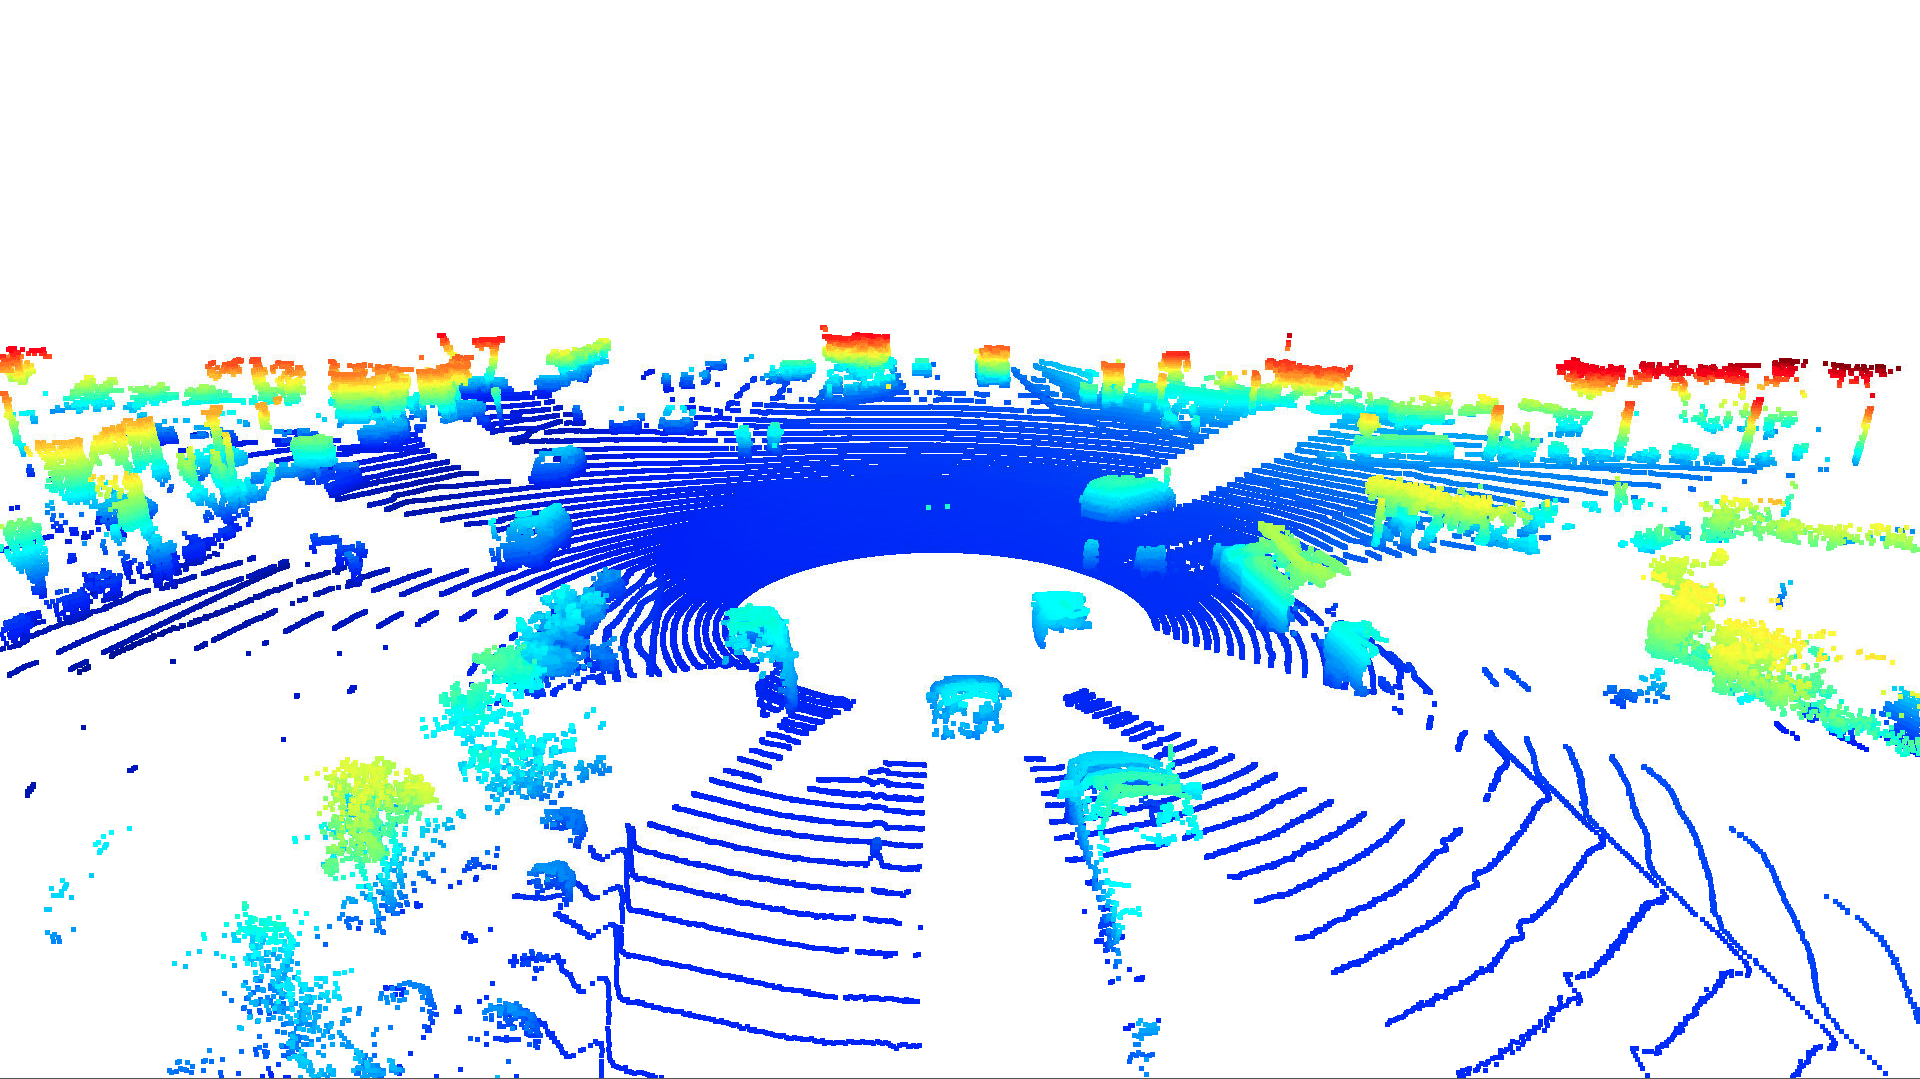
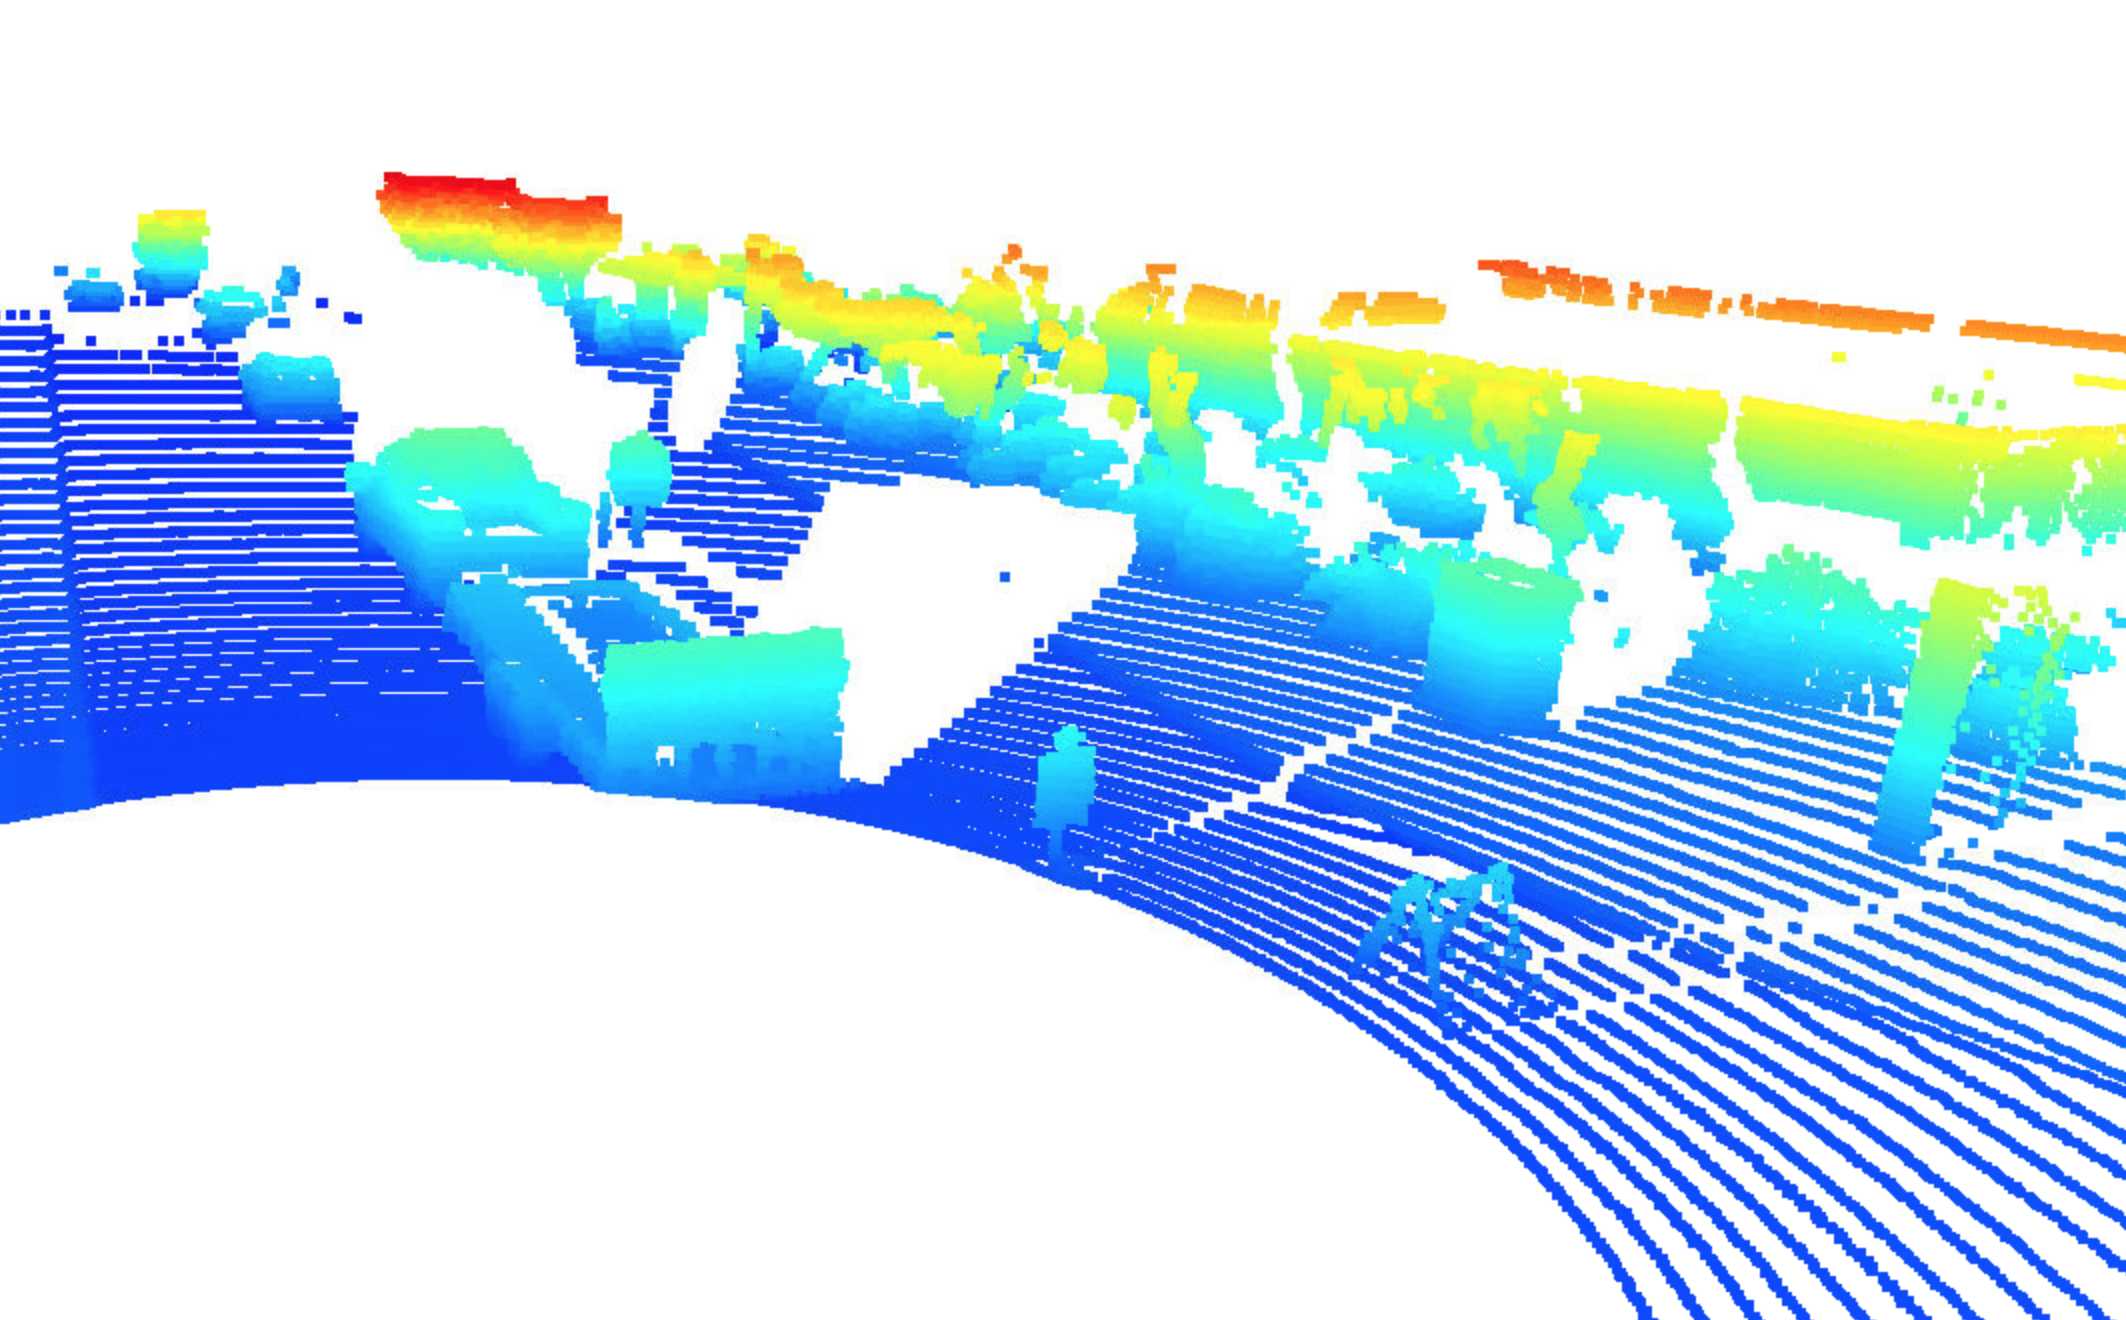
updated examples

diff --git a/README.md b/README.md
@@ -24,35 +24,61 @@ The range image for this frame supports the observations in the point cloud. We 
 
 <img src="./img/range_image_2.png">
 
-Looking at different point cloud examples, we can see different degrees of visibility, due to surroundings.
+#### Step 1 Part 2 - Examining Point Cloud Examples
 
-These two point clouds from the first scene show a truck pulling a cargo trailer to the front and right of the vehicle.
-
-In both of these point clouds, edges of cars facing the sensor vehicle appear clearly, though bumpers sometimes don't, if they are all or partially obscured by other objects.
+Below, we look closely at 10 point cloud examples, 6 from sequence 3, and 2 each from sequences 1 and 2.
 
 <img src="./img/example_1.png">
 
+In the first frame of sequence 3, we start with the bird's eye view, and see that the lidar vehicle is passing through an intersection. It has a row of cars to its left, and what looks like a truck pulling a trailer to its right. We can clearly make out vehicles, and get some sense of vehicle type (ie truck vs car), but it is difficult to make out specific vehicle details, like make and model.
+
 <img src="./img/example_2.png">
 
-These point clouds from the second scene show a slightly different angle where we can see the edges of the road, cars in front of the sensor vehicle, and what appear to be light poles on the median. The lidar intensity image at the top of this report is taken from the same scene, and also shows similar road boundaries, as well as cars in the area ahead.
+In the same frame, we can zoom in and change orientation to get a clearer view of the trailer to our right. It appears to be a flatbed cargo trailer, the kind that might be used to carry a car. We can also see that the folded ramp at the back of the trailer occludes the space further ahead and to the right. There are also two objects to the right and behind the trailer. This look like construction markers.
 
 <img src="./img/example_3.png">
 
+Rotating the view to the right and behind the lidar vehicle, we can see oncoming traffic from the intersection. There is also a faint outline of the curb, and objects on the sidewalk.
+
 <img src="./img/example_4.png">
 
-In the third scene, from a slightly higher angle, we can see the sorrounding vegetation, and some of the buildings.
+Moving ahead to frame 50 of the same sequence, the lidar vehicle is not alongside the truck with the trailer. Interestingly, the trailer is now much grainier, despite being close and not occluded. The lidar sensor still sees the trailer, but seems to be having trouble with resolution at this close of range.
 
 <img src="./img/example_5.png">
 
+Zooming out from the same frame, and rotating to the left, we can see that we are passing another intersection. In this case, there appear to be tall walls, possibly buildings, along this side street, as indicated by the red points.
+
 <img src="./img/example_6.png">
 
-### 2. Do you see any benefits in camera-lidar fusion compared to lidar-only tracking (in theory and in your concrete results)? 
+Rotating further to the left, we an see that the wall continues down the road. There is what looks like vegetation on the oppisite side of the street. Also, there are two object to the front right of the lidar vehicle (in the foreground from this perspective) that look like they could be people, based on size and height. However, there isn't sufficient resolution to positively identify them.
+
+<img src="./img/example_7.png">
+
+Moving to frame 0 of sequence 1, we can see different features of this road. There's a median with some kind of poles, possibly lights. There are also low walls on both sides of the road, and possibly vegetation to the left. There is less traffic in this example, but we can see a car behind, and several cars ahead.
+
+<img src="./img/example_8.png">
+
+Moving to frame 50, there's something interesting. We're passing a side street on the right. But the point cloud gradually shifts to green and red down this side street, indicating that this is a steep hill.
+
+<img src="./img/example_9.png">
+
+Finally, looking at sequence 2, we see a road mostly devoid of traffic, but with a lot of vegetation along the sides. This might be a less dense, possibly suburban, area.
+
+<img src="./img/example_10.png">
+
+Later in the same sequence, we see an interesting shift in color to the right. While points on the road appear in light blue, and higher point appear in green, then yellow and red, here we see dark blue. This would seem to indicate there is a large ditch or ravine to the right of the vehicle.
+
+Throughout these examples, general vehicle shapes are consistently visible. We can also get a good idea of height of vehicles. However, small details like side mirrors don't consistently appear. There are also regions around windows that don't appear on lidar.
+
+Also, comparing the sequence 1 point clouds to the range images in part one, we can clear see the wall picked up to the left in both. There also appear to be a wall on the right, though the intensity is less. This comes through in the range image, where the right appears darker. Finally, we can see that there are objects on the median, but they are not light poles, they are trees.
+
+### Step 2. Do you see any benefits in camera-lidar fusion compared to lidar-only tracking (in theory and in your concrete results)? 
 
 Yes. While cameras are good at identifying objects, they don't provide direct ranging data. Lidar, on the other hand, gives precise ranging data, but less detail about the type of object it's detecting. By combining the two, we can create a detailed 3D map of specific objects, and their specific locations in that space. 
 
 The lidar data used in this project supports this model. It provides precise that about the locations of surrounding objects, but it's not always clear what these obects are. For example, some of the objects on the sides of the road could be either vegetation, or pedestrians. Combining these data with cameras would give more precise object type data.
 
-### 3. Code results
+### Step 3. Code results
 
 #### Step 1
 
